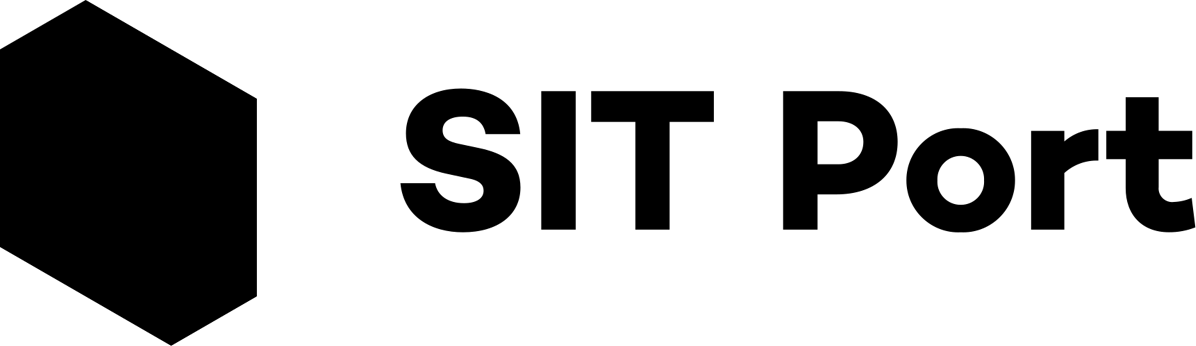
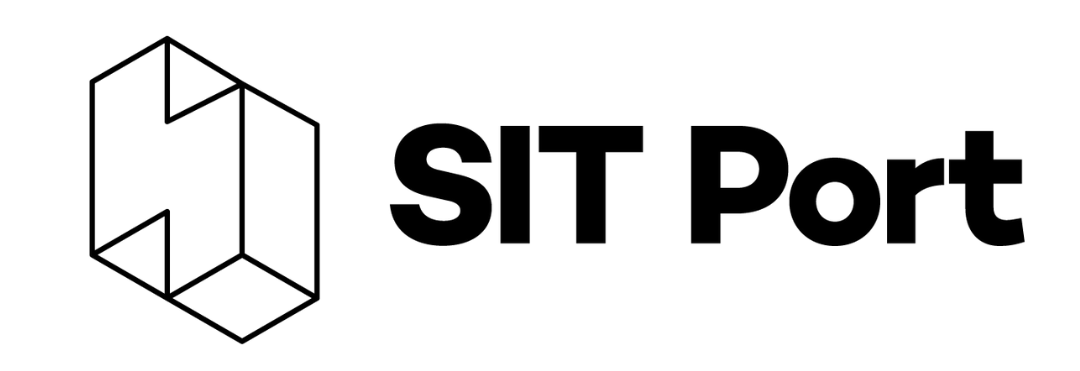
pridani loga sitportu

diff --git a/content/plzen/_index.md b/content/plzen/_index.md
@@ -31,7 +31,7 @@ abstracts: false
 abstractUrl: "/plzen/info/abstrakty"
 
 team: [honza, eda, tomáš, áďa, lucka, jakub]
-partners: [plzensky-kraj-cz, fav-zcu-cz, eserocz-cz, radovanek-cz, kooperativa, linet, gk]
+partners: [plzensky-kraj-cz, fav-zcu-cz, eserocz-cz, radovanek-cz, kooperativa, linet, gk, sit-port]
 registration: 'https://forms.gle/rPYMVUA6Qd1ipT5m7'
 registrationSheet: "https://docs.google.com/spreadsheets/d/e/2PACX-1vQ7C0G7BG8YNdOSO1hSxtmjlaNuc2pd6GMRO4SLHrT0gEAqYOV9Xl8jF2J9zK1IZZWC4cliQRKzdVQs/pub?gid=1597922239&single=true&output=csv"
 maxParticipants: "400"
